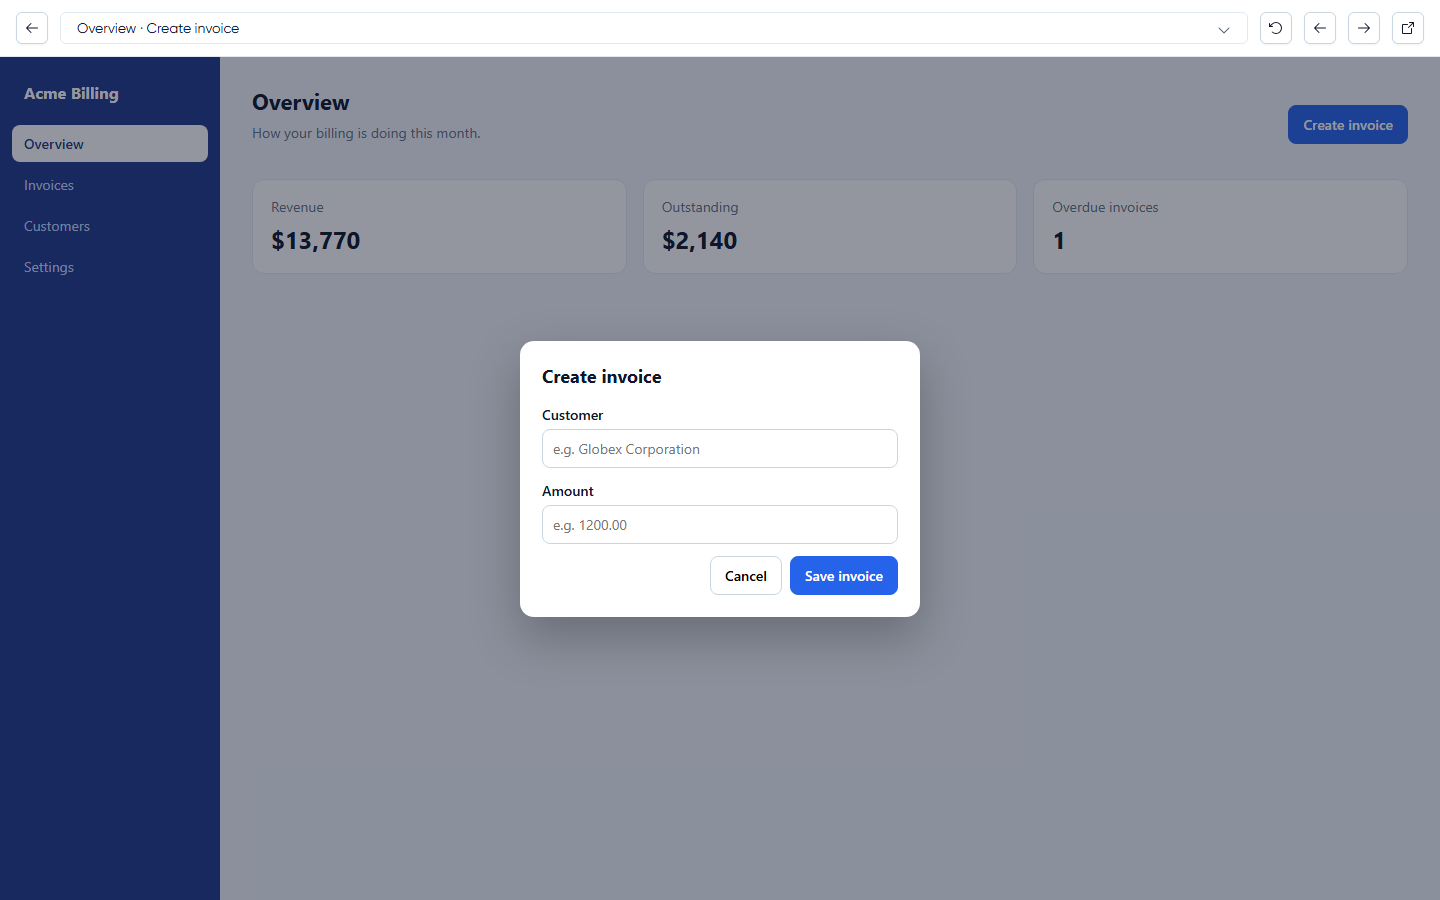
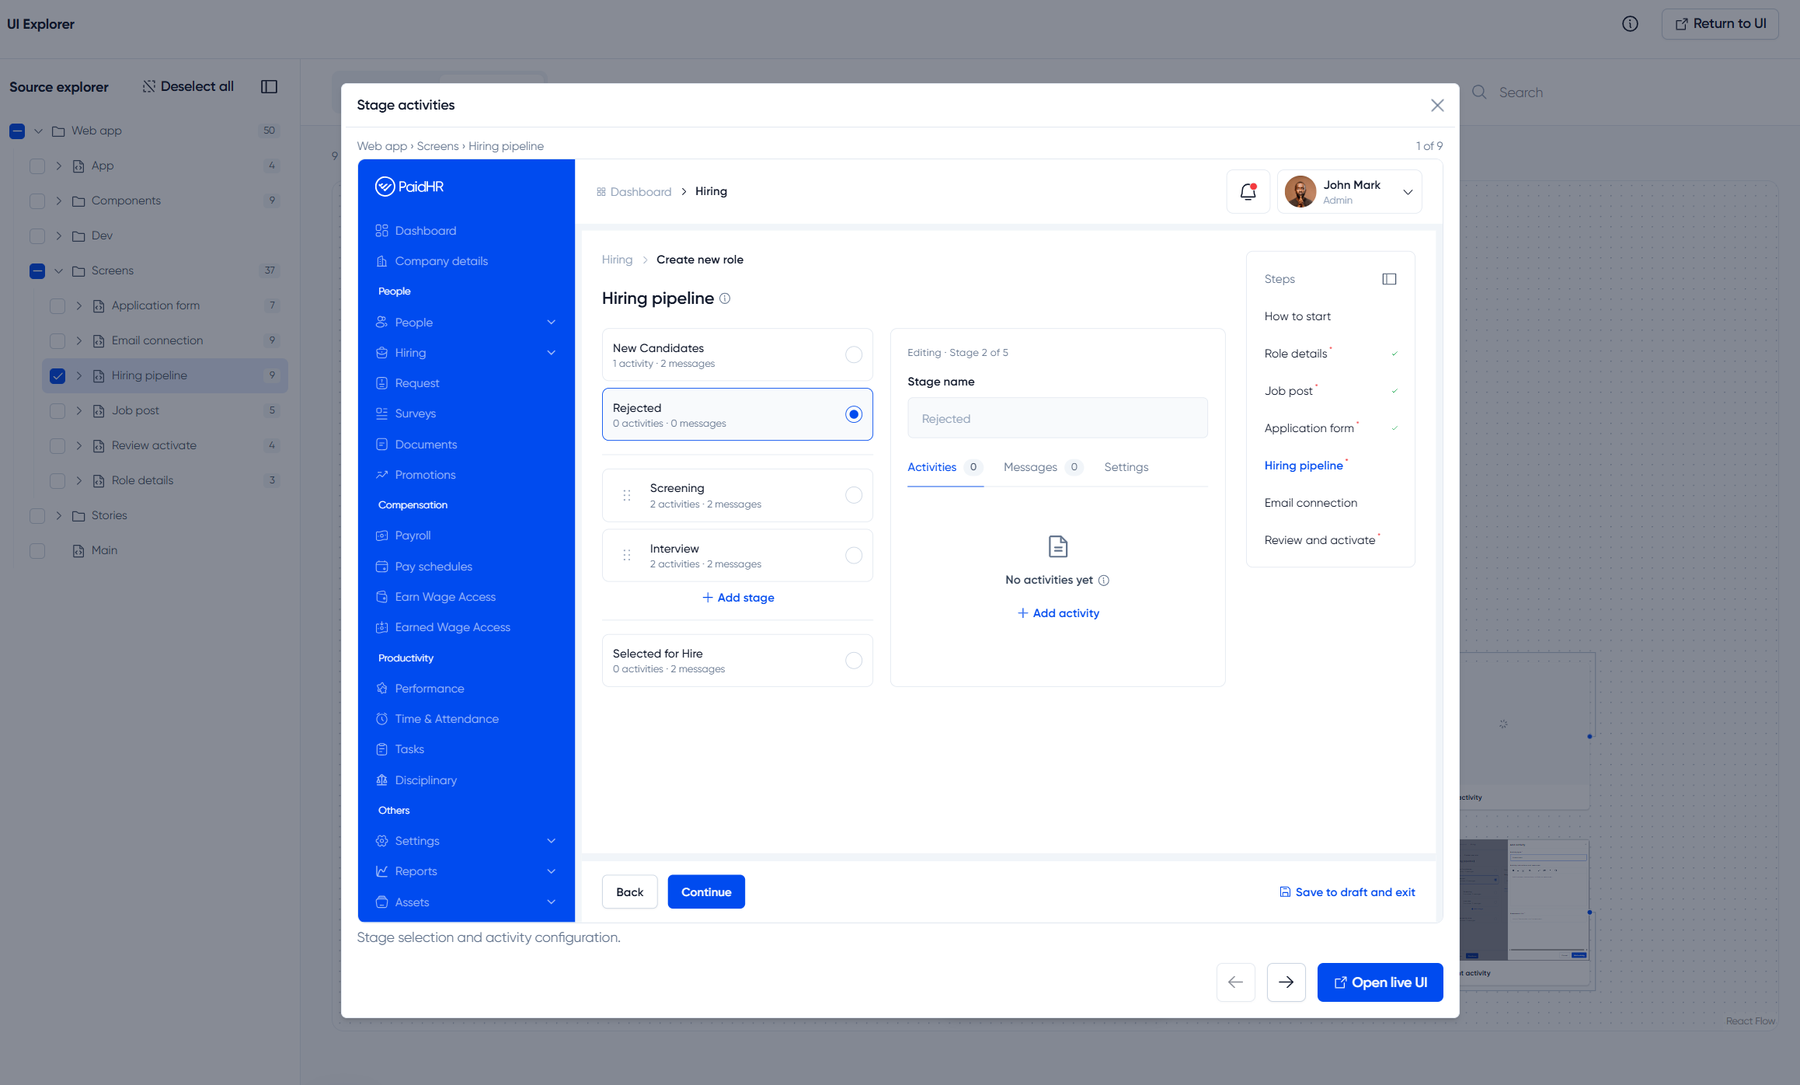
Use real-app screenshots for the enlarged screen and live view; add a live launcher shot

diff --git a/README.md b/README.md
@@ -8,7 +8,7 @@ It is for **web apps** (anything a browser can render, built with any framework 
 
 ## What it looks like
 
-These are the real explorer pages, running on [`examples/vanilla-demo`](examples/vanilla-demo): a small billing app in plain HTML, CSS and JavaScript, with no framework. The crawler found its 43 states on its own.
+These are the real explorer pages. The gallery and canvas run on [`examples/vanilla-demo`](examples/vanilla-demo), a small billing app in plain HTML, CSS and JavaScript with no framework, where the crawler found 43 states on its own. The other three come from a larger real-world app, a multi-step hiring flow.
 
 **Gallery.** Every state as a thumbnail, with the source folders on the left. Pick any combination of folders to scope what you see.
 
@@ -18,13 +18,17 @@ These are the real explorer pages, running on [`examples/vanilla-demo`](examples
 
 ![The canvas view: screens as nodes, with labelled arrows showing which control leads to which state](https://raw.githubusercontent.com/danielfransix/web-app-ui-explorer/main/docs/images/canvas.png)
 
-**One screen, enlarged.** Open any state in the live app, with arrow keys to move between states and a link out to the real page.
+**One screen, enlarged.** Open any state from the gallery or canvas. It shows where the state lives in the source tree, steps through the others with the arrow buttons, and has an **Open live UI** button to jump to the real page.
 
-![A single state, the Create invoice dialog, shown large with navigation controls at the top](https://raw.githubusercontent.com/danielfransix/web-app-ui-explorer/main/docs/images/screen.png)
+![A single state, a hiring pipeline stage screen, enlarged over the canvas with its source path, a position counter and next and previous buttons](https://raw.githubusercontent.com/danielfransix/web-app-ui-explorer/main/docs/images/screen.png)
+
+**Live view.** The same state running in the real app inside the explorer, with a bar at the top to go back, reset the state, step to the next one or open it in its own tab.
+
+![The live view of a state: the real app with the explorer's top bar for back, reset, previous, next and open in new tab](https://raw.githubusercontent.com/danielfransix/web-app-ui-explorer/main/docs/images/live.png)
 
 **Floating launcher.** In development, a small button sits at the bottom-left of your app. Click it, or press **Alt + Shift + E**, to open the explorer. Drag it if it covers something; a refresh puts it back.
 
-![The demo app with the round explorer launcher button at the bottom-left of the sidebar](https://raw.githubusercontent.com/danielfransix/web-app-ui-explorer/main/docs/images/launcher.png)
+![The app in development with the round explorer launcher button at the bottom-left of the sidebar](https://raw.githubusercontent.com/danielfransix/web-app-ui-explorer/main/docs/images/launcher.png)
 
 Try it yourself in this repository:
 
